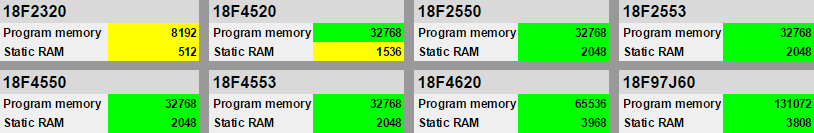
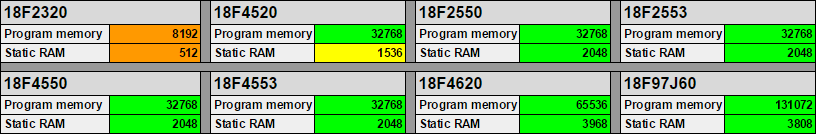
documentation "plan a project" [#5]

Changed region(s): [[0.0, 0.0, 1.0, 0.4812], [0.0, 0.5113, 1.0, 1.0]]

diff --git a/PicGIM_Sources/PicGIM/include/pgim_defines.h b/PicGIM_Sources/PicGIM/include/pgim_defines.h
@@ -47,107 +47,107 @@
 	//      P I C G I M
 	///////////////////////////////////////////////////////////////////////////////////////////////////////////
 
-	#define	PG_LOOP( a )			while( a )
-	#define	PG_INFINITE_LOOP		while( 1 )
-	#define	PG_HALT					while( 1 )
+	#define	PG_LOOP( a )			while( a )		/*!	A Loop with argument	*/
+	#define	PG_INFINITE_LOOP		while( 1 )		/*!	A forever loop	*/
+	#define	PG_HALT					while( 1 )		/*!	A forever loop	*/
 
-	#define	PG_FOREVER				1
+	#define	PG_FOREVER				1				/*!	An argument for \ref PG_LOOP()	*/
 	
-	#define	PG_OK					1
-	#define	PG_NOK					0
+	#define	PG_OK					1				/*!	An alternative way to say "logic value 1"	*/
+	#define	PG_NOK					0				/*!	An alternative way to say "logic value 0"	*/
 
-	#define	PG_DONE					1
-	#define	PG_NOT_DONE				0
+	#define	PG_DONE					1				/*!	An alternative way to say "logic value 1"	*/
+	#define	PG_NOT_DONE				0				/*!	An alternative way to say "logic value 0"	*/
 	
-	#define	PG_YES					1
-	#define	PG_NO					0
+	#define	PG_YES					1				/*!	An alternative way to say "logic value 1"	*/
+	#define	PG_NO					0				/*!	An alternative way to say "logic value 0"	*/
 
-	#define	PG_ON					1
-	#define	PG_OFF					0
+	#define	PG_ON					1				/*!	An alternative way to say "logic value 1"	*/
+	#define	PG_OFF					0				/*!	An alternative way to say "logic value 0"	*/
 
-	#define	PG_IN					1
-	#define	PG_OUT					0
+	#define	PG_IN					1				/*!	To program a PIN in INPUT	*/
+	#define	PG_OUT					0				/*!	To program a PIN in OUTPUT	*/
 
-	#define	PG_8BIT_IN				0xFF
-	#define	PG_8BIT_OUT				0x00
+	#define	PG_8BIT_IN				0xFF			/*!	To program an entire PORT in INPUT	*/
+	#define	PG_8BIT_OUT				0x00			/*!	To program an entire PORT in OUTPUT	*/
 
-	#define	PG_LOW					0
-	#define	PG_HIGH					1
-	#define	PG_TRISTATE				2
+	#define	PG_LOW					0				/*!	An alternative way to say "logic value 0"	*/
+	#define	PG_HIGH					1				/*!	An alternative way to say "logic value 1"	*/
+	#define	PG_TRISTATE				2				/*!	Tristate when available	*/
 	
-	#define	PG_SET					1
-	#define	PG_CLEAR				0
+	#define	PG_SET					1				/*!	An alternative way to say "logic value 1"	*/
+	#define	PG_CLEAR				0				/*!	An alternative way to say "logic value 0"	*/
 
-	#define	PG_START				1
-	#define	PG_STOP					0
+	#define	PG_START				1				/*!	An alternative way to say "logic value 1"	*/
+	#define	PG_STOP					0				/*!	An alternative way to say "logic value 0"	*/
 
-	#define	PG_ENABLE				1
-	#define	PG_DISABLE				0
+	#define	PG_ENABLE				1				/*!	An alternative way to say "logic value 1"	*/
+	#define	PG_DISABLE				0				/*!	An alternative way to say "logic value 0"	*/
 
-	#define PG_ENABLE_1_S			2
-	#define PG_ENABLE_LOO			3
+	#define PG_ENABLE_1_S			2				/*!	To program the TIMER to do just only one count 	*/
+	#define PG_ENABLE_LOOP			3				/*!	To program the TIMER to do a continuos counting	*/
 
-	#define	PG_INCLUDE				1
-	#define	PG_NOT_INCLUD			0
+	#define	PG_INCLUDE				1				/*!	An alternative way to say "logic value 1"	*/
+	#define	PG_NOT_INCLUDE			0				/*!	An alternative way to say "logic value 0"	*/
 
-	#define	PG_MASTER				1
-	#define	PG_SLAVE				2
+	#define	PG_MASTER				1				/*!	An alternative way to say "logic value 1"	*/
+	#define	PG_SLAVE				2				/*!	An alternative way to say "logic value 0"	*/
 
-	#define	PG_BUSY					1
-	#define	PG_READY				0
+	#define	PG_BUSY					1				/*!	An alternative way to say "logic value 1"	*/
+	#define	PG_READY				0				/*!	An alternative way to say "logic value 0"	*/
 
-	#define PG_TRUE					1
-	#define PG_FALSE				0
+	#define PG_TRUE					1				/*!	An alternative way to say "logic value 1"	*/
+	#define PG_FALSE				0				/*!	An alternative way to say "logic value 0"	*/
 
-	#define PG_READ					1
-	#define PG_WRITE				0
+	#define PG_READ					1				/*!	An alternative way to say "logic value 1"	*/
+	#define PG_WRITE				0				/*!	An alternative way to say "logic value 0"	*/
 
-	#define	PG_SEC					1
-	#define	PG_MSEC					2
-	#define	PG_USEC					3
+	#define	PG_SEC					1				/*!	A time unit : Second	*/
+	#define	PG_MSEC					2				/*!	A time unit : Millisecond	*/
+	#define	PG_USEC					3				/*!	A time unit : Microsecond	*/
 
-	#define	PG_HZ					4
-	#define	PG_KHZ					5
-	#define	PG_MHZ					6
+	#define	PG_HZ					4				/*!	A frequency unit : Hertz	*/
+	#define	PG_KHZ					5				/*!	A frequency unit : Kilohertz	*/
+	#define	PG_MHZ					6				/*!	A frequency unit : Megahertz	*/
 
-	#define PG_RELEASE				0
-	#define PG_DEBUG				1
+	#define PG_RELEASE				0				/*!	The state of a project : Debug	*/
+	#define PG_DEBUG				1				/*!	The state of a project : release	*/
 	
-	#define PG_NONE					0
-	#define PG_STANDARD				1
-	#define PG_ENHANCED				2
+	#define PG_NONE					0				/*!	An alternative way to say "logic value 0"	*/
+	#define PG_STANDARD				1				/*!	A module state : Standard	*/
+	#define PG_ENHANCED				2				/*!	A module state : Enhanced	*/
 	
-	#define PG_MANUAL				0
-	#define PG_SEMI_AUTOMATIC		1
-	#define PG_AUTOMATIC			2
+	#define PG_MANUAL				0				/*!	A Serial module mode : Manual	*/
+	#define PG_SEMI_AUTOMATIC		1				/*!	A Serial module mode : SemiAutomatic	*/
+	#define PG_AUTOMATIC			2				/*!	A Serial module mode : Automatic	*/
 
-	#define	PG_DEBUG_LCD_CHAR		1
+	#define	PG_DEBUG_LCD_CHAR		1				/*! To use the LCD CHAR as debug output */
 //	#define PG_DEBUG_LCD_PCD8544	2
 	
-	#define PG_COMMAND				0
-	#define PG_DATA					1
+	#define PG_COMMAND				0				/*! The byte is a Command */
+	#define PG_DATA					1				/*! The byte is a Data */
 	
-	#define PG_MISSING				-1
+	#define PG_MISSING				-1				/*!	An error state : Missing */
 	
-	#define PG_CONTROLLER_0			0
-	#define PG_CONTROLLER_1			1
-	#define PG_CONTROLLER_2			2
-	#define PG_CONTROLLER_3			3
+	#define PG_CONTROLLER_0			0				/*!	This is the controller 0 */
+	#define PG_CONTROLLER_1			1				/*!	This is the controller 1 */
+	#define PG_CONTROLLER_2			2				/*!	This is the controller 2 */
+	#define PG_CONTROLLER_3			3				/*!	This is the controller 3 */
 	
-	#define	PG_LINE_0				0
-	#define	PG_LINE_1				1
-	#define	PG_LINE_2				2
-	#define	PG_LINE_3				3
+	#define	PG_LINE_0				0				/*!	This is the line 0 */
+	#define	PG_LINE_1				1				/*!	This is the line 1 */
+	#define	PG_LINE_2				2				/*!	This is the line 2 */
+	#define	PG_LINE_3				3				/*!	This is the line 3 */
 
-	#define	PG_HD44780				1
+	#define	PG_HD44780				1				/*!	The name of the controller HD44780 */
 
 	///////////////////////////////////////////////////////////////////////////////////////////////////////////
 	//      B O A R D   D E F I N E S
 	///////////////////////////////////////////////////////////////////////////////////////////////////////////
 
-	#define	PG_BOARD_USER_DEFINED	0
-	#define	PG_BOARD_A				1
-	#define	PG_BOARD_EXPERIENCE		2
+	#define	PG_BOARD_USER_DEFINED	0				/*!	PicGIM will run on a user define board */
+	#define	PG_BOARD_A				1				/*!	PicGIM will run on a BOARD A */
+	#define	PG_BOARD_EXPERIENCE		2				/*!	PicGIM will run on a BOARD EXPERIENCE */
 
 	///////////////////////////////////////////////////////////////////////////////////////////////////////////
 	//      H E A D E R   M E S S A G E S
@@ -490,21 +490,174 @@
 	
 		\n
 		\image html planning.png
-		\n \n 
+		\n 
 			
-		 To plan a new project with PicGIM you need to consider in detail what modules will need to enable. \n
-		 And with even more attention to which microcontroller to use. \n
-		 Keep in mind that PicGIM, in the next milestone will be even more careful in the use of the Program Memory and RAM and even more configurable. \n
-		 Here is a table that summarizes chromatically the attention to be placed in the choice of the microcontroller. \n
-		 
-		 \attention		In this table are ONLY microcontrollers currently supported by PicGIM. \n The microcontrollers supported are constantly increasing, and in case of a specific request, please write to info@gkript.org. \n 
+		To plan a new project with PicGIM you need to consider in detail what modules will need to enable. \n
+		And with even more attention to which microcontroller to use. \n
+		Keep in mind that PicGIM, in the next milestone will be even more careful in the use of the Program Memory and RAM and even more configurable. \n
 
-		 \n \n 
+ 		\htmlonly <br><br> \endhtmlonly
 
-		 \image	html	tabella-mcu-colori.png
- 	
-		 \n \n 
+	\section	planmicrochoose		Choose the proper Microcontroller
+
+		\htmlonly <hr> \endhtmlonly
+		\endcode
 		
+		Here is a table that summarizes chromatically the attention to be placed in the choice of the microcontroller. \n
+
+		\endcode
+
+		\n
+
+		\image	html	tabella-mcu-colori.png
+ 	
+		\n
+
+		<p>
+			As you can see the 18F2320 is colored orange which means critical. \n
+			This does NOT mean that there are no applications that PicGIM can play with this MCU. \n
+			Simply will need a good project planning for configuring PicGIM always keeping in mind the amount of Program Memory required for main algorithm. \n
+ 			In the next section are shown, in detail, the amount of Program Memory and Static RAM necessary for the inclusion of each module.
+		</p> \n
+
+		\attention		In this table are ONLY microcontrollers currently supported by PicGIM. \n The microcontrollers supported are constantly increasing, and in case of a specific request, please write to info@gkript.org. 
+
+ 		\htmlonly <br> \endhtmlonly
+
+	\section	planmicrodetails		In detail : Program Memory and Static RAM
+
+		\htmlonly <hr> \endhtmlonly
+		\endcode
+
+		The calculations were performed in conditions of "FROZEN CODE". \n
+		The calculation methods were as follows : \n \n
+
+		\htmlonly
+
+				<table class="cl_table" width="50%" border="0" >
+					<thead>
+						<tr align="center">
+							<th width="30%">Instruction set</th>
+							<th width="40%">Optimization</th>
+							<th width="30%">Error module</th>
+						</tr>
+					</thead>
+					<tbody>
+						<tr align="center"> <td>Traditional</td><td>NO optimization [-O]</td><td>DISABLE</td> </tr>
+						<tr align="center"> <td>Traditional</td><td>STD optimization [-Opa]</td><td>DISABLE</td> </tr>
+						<tr align="center"> <td>Traditional</td><td>FULL optimization</td><td>DISABLE</td> </tr>
+						<tr align="center"> <td>Extended</td><td>NO optimization [-O]</td><td>DISABLE</td> </tr>
+						<tr align="center"> <td>Extended</td><td>STD optimization [-Opa]</td><td>DISABLE</td> </tr>
+						<tr align="center"> <td>Extended</td><td>FULL optimization</td><td>DISABLE</td> </tr>
+						<tr align="center"> <td>Traditional</td><td>NO optimization [-O]</td><td>ENABLE</td> </tr>
+						<tr align="center"> <td>Traditional</td><td>STD optimization [-Opa]</td><td>ENABLE</td> </tr>
+						<tr align="center"> <td>Traditional</td><td>FULL optimization</td><td>ENABLE</td> </tr>
+						<tr align="center"> <td>Extended</td><td>NO optimization [-O]</td><td>ENABLE</td> </tr>
+						<tr align="center"> <td>Extended</td><td>STD optimization [-Opa]</td><td>ENABLE</td> </tr>
+						<tr align="center"> <td>Extended</td><td>FULL optimization</td><td>ENABLE</td> </tr>
+					</tbody>
+				</table>
+			\endhtmlonly
+ 	\htmlonly <br><br> \endhtmlonly
+
+		\subsection		planmicrodetailscore	The PicGIM core structure
+
+			\htmlonly <hr> \endhtmlonly
+			\endcode
+
+			The amount of resources required by the internal structure of PicGIM is calculated by disabling all its features. \n
+			Here is the table: 
+
+			\image	html	picgim-structure-table.png
+
+			\n 
+
+			And here's the chart: \n 
+
+			\image	html	no-module.png
+
+			\n\n
+
+		\subsection		planmicrodetaildelay		The Delay module
+
+			\htmlonly <hr> \endhtmlonly
+			\endcode
+
+			The DELAY module has no dependencies, but has only an additional feature that is compiled only if the EVENTS module is enabled and occupies approximately 15 bytes of Program Memory and 0 bytes of Static RAM. \n
+
+			\note	The resources needed by each module were calculated compiling PicGIM with only this module enabled, including any dependencies, and subtracting the amount of Program memory and Static RAM of the PicGIM structure. \n
+
+ 			Here is the table:
+
+			\image	html	delay-table.png
+
+			\n
+
+			And here's the chart: \n
+
+			\image	html	delay-module.png
+
+			\n\n
+
+		\subsection		planmicrodetailevent		The Events module
+
+			\htmlonly <hr> \endhtmlonly
+			\endcode
+
+			The EVENTS module has no dependencies. \n
+			The event module is composed by the structure for its proper operation and the contribution of each individual event. \n
+ 			The table will then be divided into two sections: the structure and a single event. \n
+
+			\note	The resources needed by each module were calculated compiling PicGIM with only this module enabled, including any dependencies, and subtracting the amount of Program memory and Static RAM of the PicGIM structure. \n
+
+ 			Here is the table:
+
+			\image	html	events-table.png
+
+			\n
+
+			And here's the chart for the EVENTS structure: \n
+
+			\image	html	event-module.png
+
+			\n
+
+			And here's the chart for each Event: \n
+
+			\image	html	each-event.png
+
+			\n\n
+
+		\subsection		planmicrodetaillcdhd		The LCD HD44780 module
+
+			\htmlonly <hr> \endhtmlonly
+			\endcode
+
+			The LCD module HD44780 has as a dependency the DELAY module. \n
+			The module supports the HD44780 LCD module ERRORS. \n
+			The table and graphs show the data in every possible configuration. \n
+
+			\note	The resources needed by each module were calculated compiling PicGIM with only this module enabled, including any dependencies, and subtracting the amount of Program memory and Static RAM of the PicGIM structure. \n
+
+ 			Here is the table:
+
+			\image	html	lcd-hd44780-table.png
+
+			\n
+
+			Here's the chart for the LCD HD44780 with ERRORS disabled: \n
+
+			\image	html	lcd-hd44780.png
+
+			\n
+
+			Here's the chart for the LCD HD44780 with ERRORS enabled: \n
+
+			\image	html	lcd-hd44780-error.png
+
+			\n\n
+
+
 */
 
 /*!
